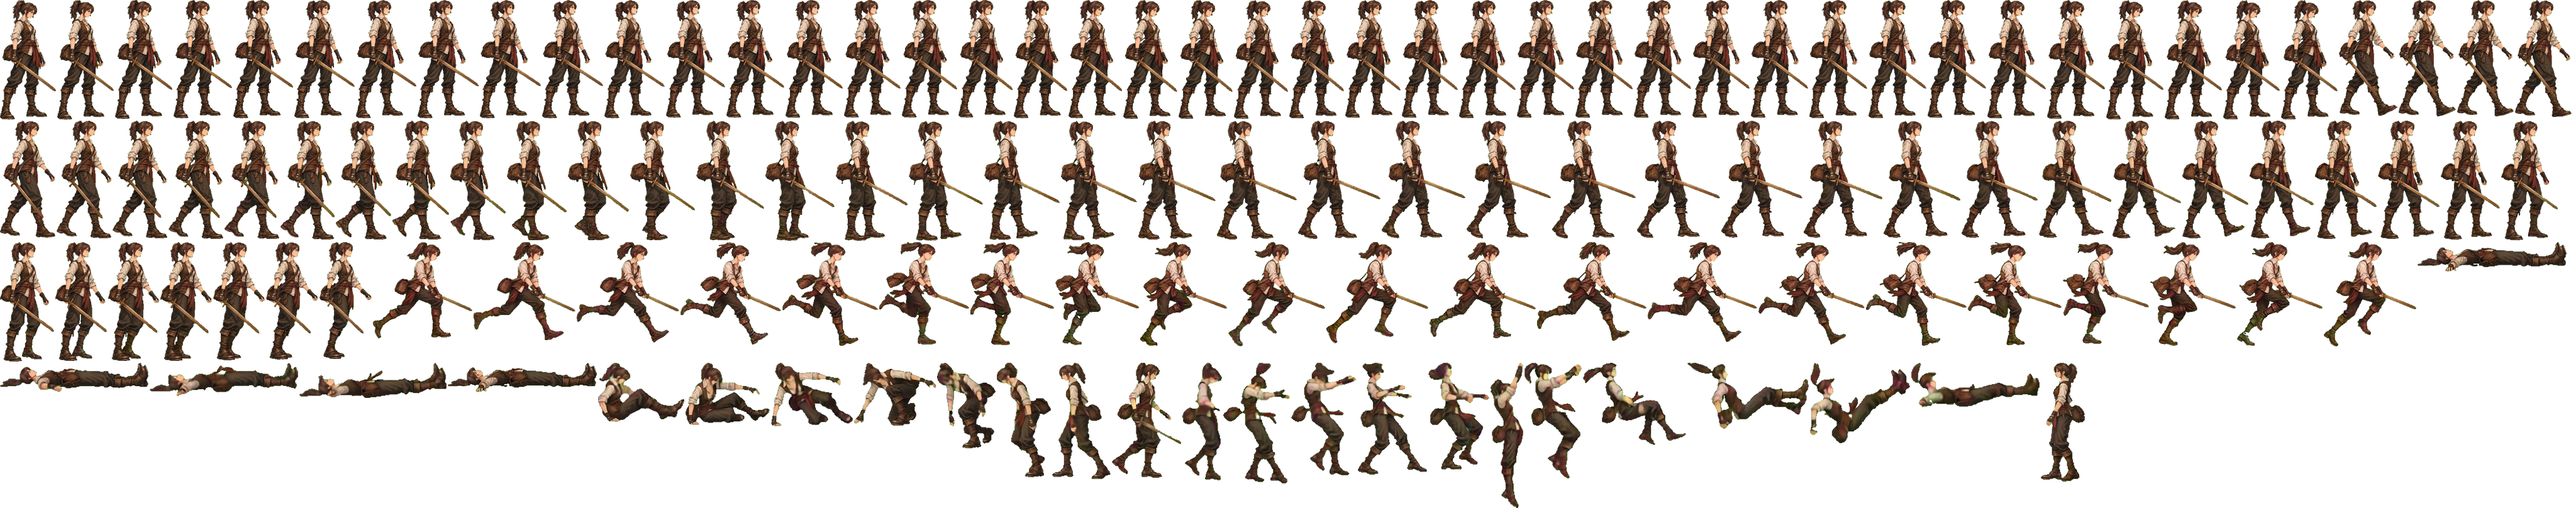
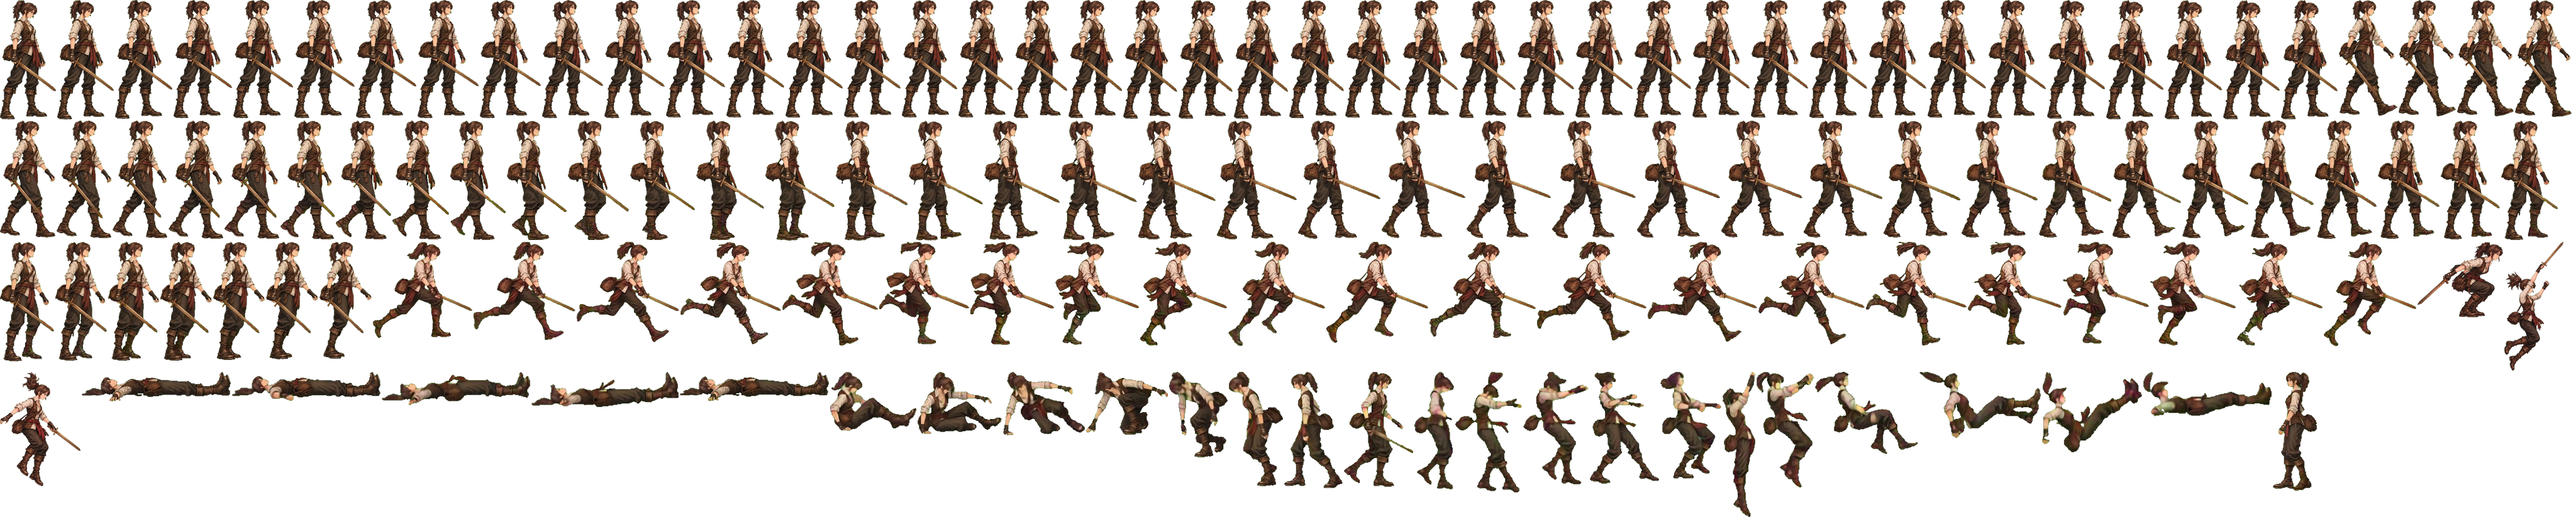
Movements: gambler djump (Card Step: tuck + flick, long stride) and Beginner jump (crouch / apex / fall) from GPT stills; atlases recut — PvP chat: the gambler's djump is in
Claude-Session: https://claude.ai/code/session_01S4kDFHtMwUWSzAyaBY11TJ

Changed region(s): [[0.0, 0.0309, 1.0, 0.9901]]

diff --git a/src/game/Body.ts b/src/game/Body.ts
@@ -669,7 +669,9 @@ function heroPose(cls: string, dir: Dir, q: PoseQuery): PoseFrame {
         if (cls === 'archer' && a2 < 440) return H('djump', a2 < 200 ? 0 : 1);
         if (cls === 'samurai' && a2 < 380) return HEROES[cls].actions.djump.length >= 4 ? H('djump', a2 < 70 ? 0 : a2 < 150 ? 1 : a2 < 290 ? 2 : 3) : H('djump', a2 < 110 ? 0 : 1);
         if (cls === 'warrior' && a2 < 560 && q.phase !== 'fall') return H('djump', a2 < 160 ? 0 : 1);
+        if (cls === 'gambler' && a2 < 440) return H('djump', a2 < 180 ? 0 : 1); // Card Step: the tuck and the flick, then the long stride
       }
+      if (!HEROES[cls].actions.jump) return H('stance', 0);
       if (HEROES[cls].actions.jump.length >= 4) return H('jump', { takeoff: 0, rise: 1, apex: 2, fall: 3, land: 0 }[q.phase]); // painted: crouch, rise, apex, reach down
       return H('jump', { takeoff: 0, rise: 1, apex: 1, fall: 2, land: 0 }[q.phase]);
     }
